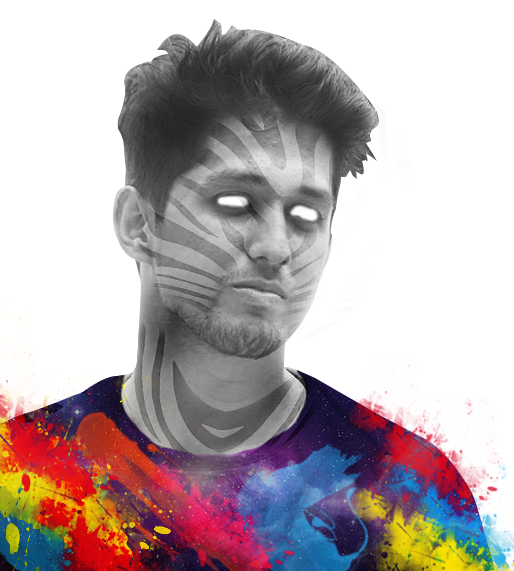
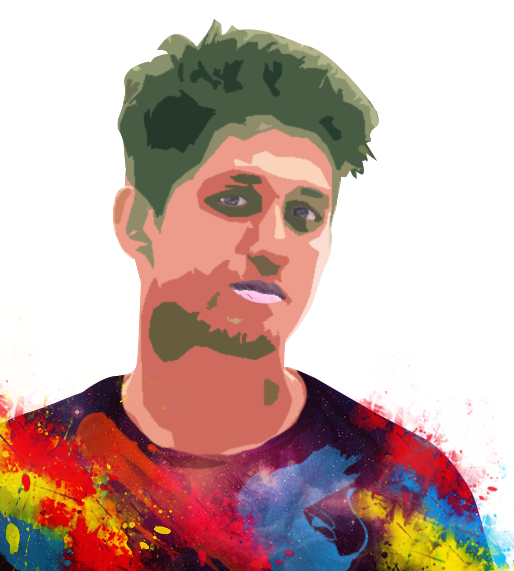
work

diff --git a/experience.html b/experience.html
@@ -34,49 +34,47 @@
         <div class="row">
           <div class="col-md-6 col-sm-6">
             <div class="about-banner">
-              <img src="images/full-me.png" class="img-responsive" />
+              <img src="images/full-image.png" class="img-responsive" />
             </div>
           </div>
           <div class="col-md-6 col-sm-6 v-align">
-            <h1 class="heading">about adeel</h1>
-            <p class="paragraph">
-              I am a full stack dev & designer focusing on making a great UI/UX. I have 
-              a passion for working with startups and product based
-              companies in assisting them in making an outstanding product. I live in Lahore, 
-              Pakistan with my 2 dogs. I have worked with clients from all over the world
-              over the past few years.
-            </p>
-            <p class="paragraph">
-              I enjoy taking complicated problems & turning them into simple, elegant 
-              solutions. I love writting beautiful code that is written structurally & 
-              indented properly.
-            </p>
-            <p class="paragraph">
-              When I am not doing some ninja skills with the code or fighting crime, 
-              you'll probably find me in the gym or at a coffee shop sipping on 
-              some good caffacino.
-            </p>
+            <section>
+              <h1 class="heading">journey so far</h1>
+              <br />
+              <dl class="dl-horizontal">
+                <dt><a href="https://servup.io">Servup</a></dt>
+                <dd>
+                  Full Stack Software Engineer <br />
+                  February 2017 - Present
+                </dd>
+              </dl>
+              <dl class="dl-horizontal">
+                <dt><a href="https://onebytellc.com/">Onebyte</a></dt>
+                <dd>
+                  Full Stack Software Engineer <br />
+                  June 2016 - November 2016 (6 months)
+                </dd>
+              </dl>
+            </section>
+            <section>
+              <h1 class="heading">education</h1>
+              <br />
+              <dl class="dl-horizontal">
+                <dt><a href="http://www.uol.edu.pk/">Unviersity of Lahore</a></dt>
+                <dd>
+                  Bachelors In Computer Science <small class="red">(Hons)</small> <br />
+                  2012 - 2016
+                </dd>
+              </dl>
+            </section>
             <div>
-              <p>
-                <a href="https://twitter.com/adeelibr" target="_blank">
-                  <i class="fa fa-twitter fa-2x fa-fw" aria-hidden="true"></i>
-                </a>
+              <h3>
                 <a href="https://www.linkedin.com/in/adeelimran/" target="_blank">
-                  <i class="fa fa-linkedin fa-2x  fa-fw" aria-hidden="true"></i>
+                  to see in depth about my past work experiences & education head over 
+                  to my linkedin profile 
+                  <i class="fa fa-linkedin fa-fw" aria-hidden="true"></i>
                 </a>
-                <a href="https://github.com/adeelibr" target="_blank">
-                  <i class="fa fa-github fa-2x  fa-fw" aria-hidden="true"></i>
-                </a>
-                <a href="https://codepen.io/adeelibr" target="_blank">
-                  <i class="fa fa-codepen fa-2x  fa-fw" aria-hidden="true"></i>
-                </a>
-                <a href="https://www.behance.net/adeelibr" target="_blank">
-                  <i class="fa fa-behance fa-2x  fa-fw" aria-hidden="true"></i>
-                </a>
-                <a href="mailto:adeelimranr@gmail.com?Subject=Hey!" target="_blank">
-                  <i class="fa fa-envelope fa-2x  fa-fw" aria-hidden="true"></i>
-                </a>
-              </p>
+              </h3>
             </div>
           </div>
         </div>
@@ -91,8 +89,10 @@
     <script>
       $(document).ready(function () {
         $('.heading').addClass('animated jello');    
+        $('dt').addClass('animated tada');    
         $('p.paragraph:nth-child(even)').addClass('animated fadeInLeft');    
         $('p.paragraph:nth-child(odd)').addClass('animated fadeInRight');    
+        $('h3').addClass('animated bounceInUp');    
         $('.about-banner').addClass('animated fadeInLeft');    
       })
     </script>

diff --git a/index.html b/index.html
@@ -21,6 +21,7 @@
       <a href="javascript:void(0)" class="closebtn" onclick="toggleNav()">&times;</a>
       <a href="index.html">Home</a>
       <a href="about.html">About</a>
+      <a href="experience.html">Experience</a>
       <a href="skills.html">Skills</a>
     </div>
     <div class="nav-menu-icon-body">
@@ -36,7 +37,7 @@
               hello
               <small>
                 I believe a good UX can change people's live ..
-                believe me it can & I can help making that change,
+                believe me it can & I can help in making that change,
                 contact me.
                 <a href="https://twitter.com/adeelibr" target="_blank">
                   <i class="fa fa-twitter fa-fw" aria-hidden="true"></i>
@@ -46,7 +47,7 @@
                 </a>
               </small>
             </h1>
-            <h1 class="heading">developer</h1>
+            <h1 class="heading">&lt;developer /&gt;</h1>
             <p class="paragraph">full stack developer. I love wirtting code, like literally love 
             writting code, seriously! Indented code is <span class="red"><3</span>, it’s bae<p>
             <h1 class="heading">ui/ux designer</h1>

diff --git a/css/main-style.css b/css/main-style.css
@@ -62,7 +62,7 @@ h1.heading {
   word-wrap: break-word;
 }
 
-p.paragraph {
+p, p.paragraph {
   margin-top: 0;
   margin-bottom: 15px;
   color: #000;
@@ -88,12 +88,19 @@ li:hover {
   padding-left: 15px;
 }
 
+a,
+dt a,
 a .fa {
-  color: #ed5420;
+  color: #ed5420 !important;
+  text-decoration: none;
   transition: all .2s;
 }
+
+a,
+dt a:hover,
 a:hover .fa {
-  color: #fff;
+  color: #fff !important;
+  text-decoration: none !important;
   transition: all .2s;
 }
 

diff --git a/skills.html b/skills.html
@@ -20,6 +20,7 @@
       <a href="javascript:void(0)" class="closebtn" onclick="toggleNav()">&times;</a>
       <a href="index.html">Home</a>
       <a href="about.html">About</a>
+      <a href="experience.html">Experience</a>
       <a href="skills.html">Skills</a>
     </div>
     <div class="nav-menu-icon-body">
